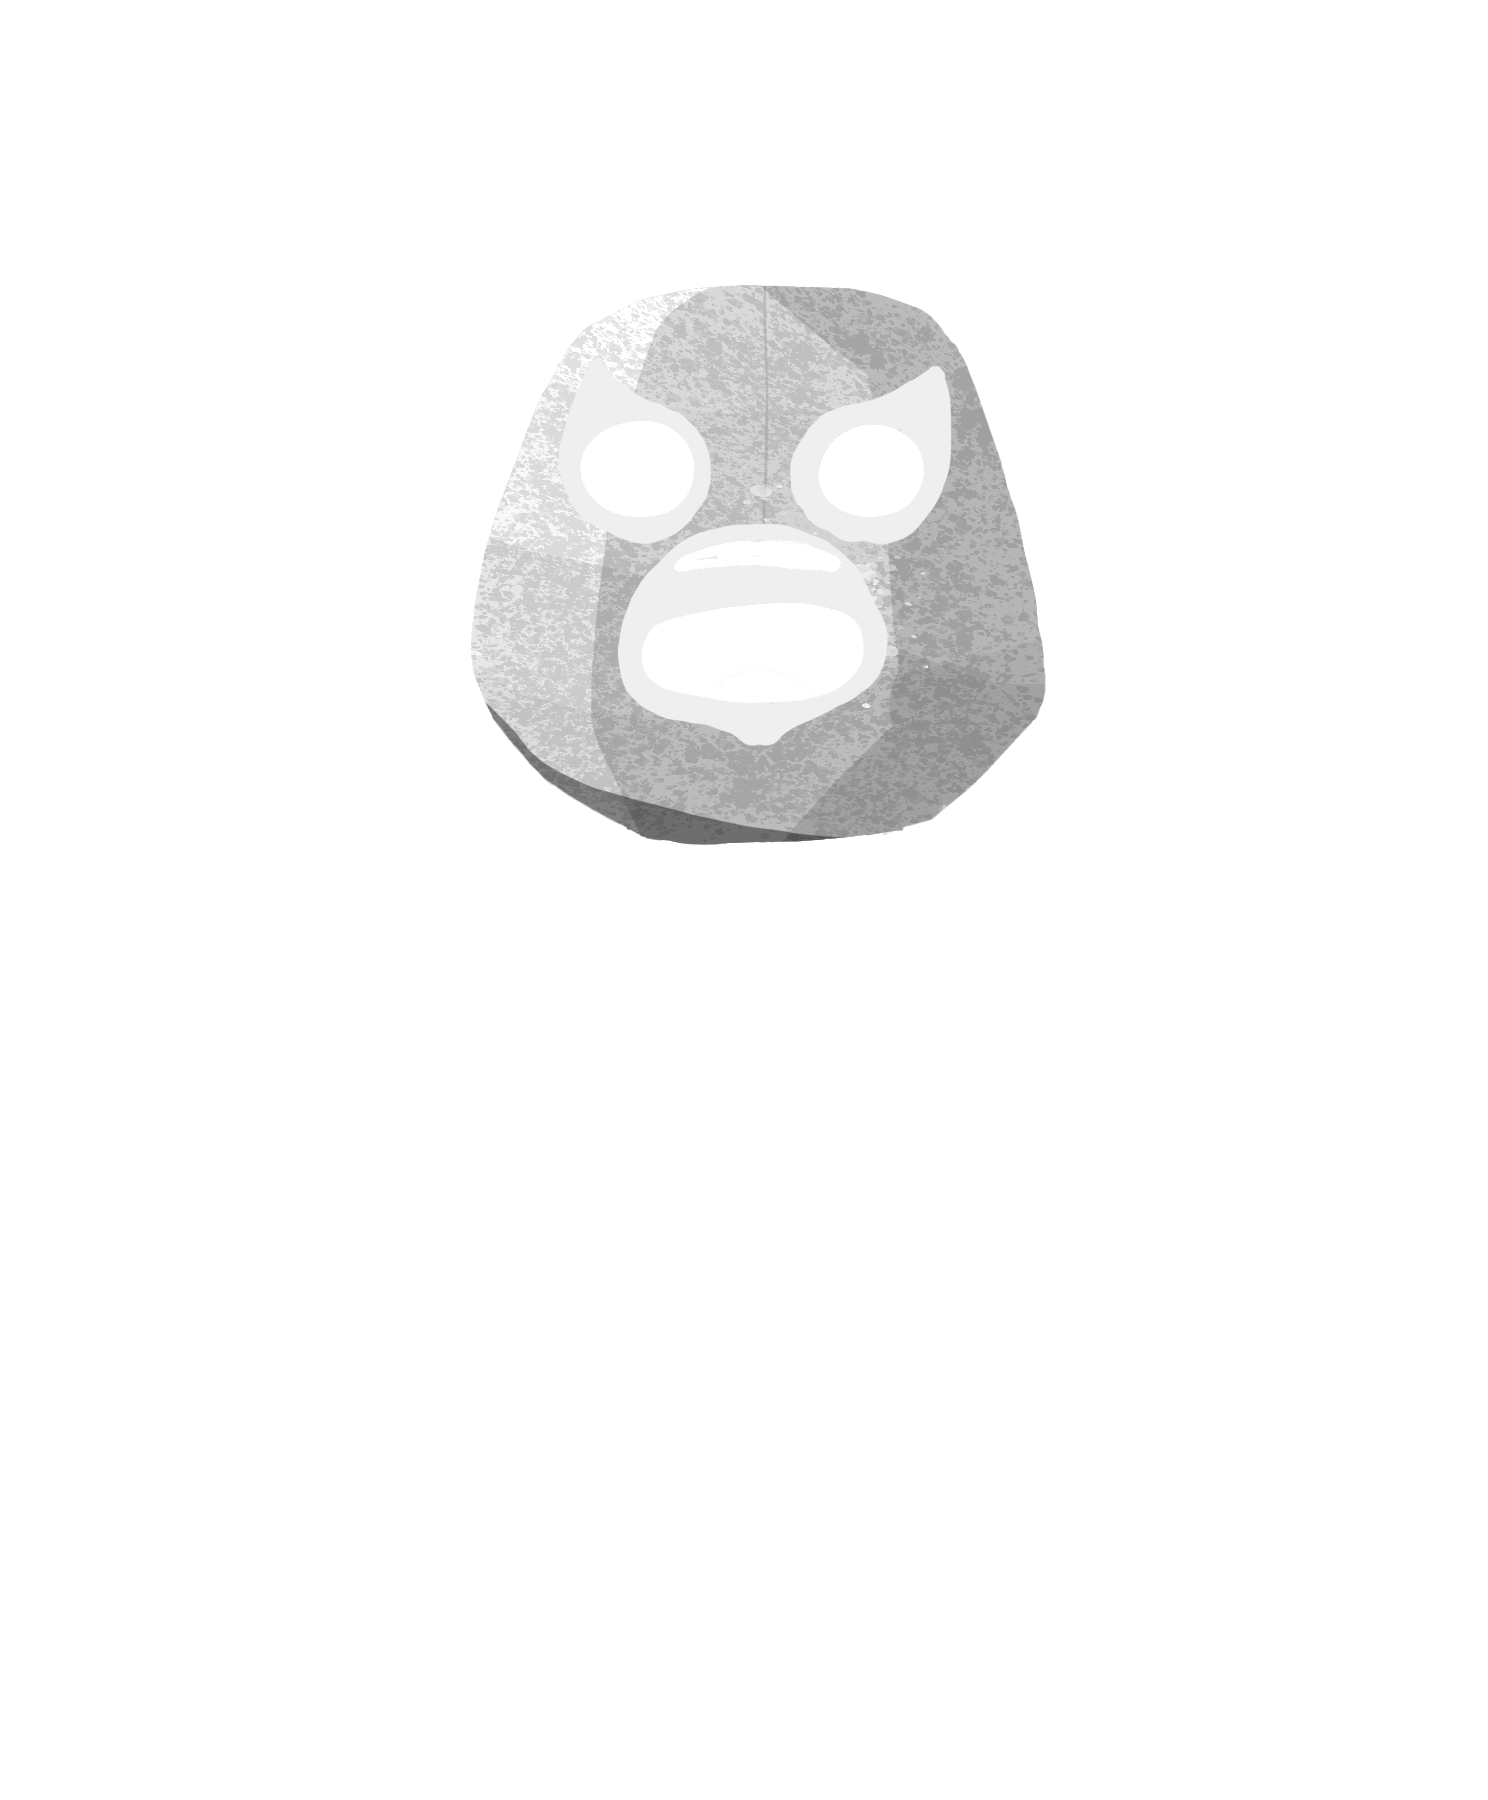
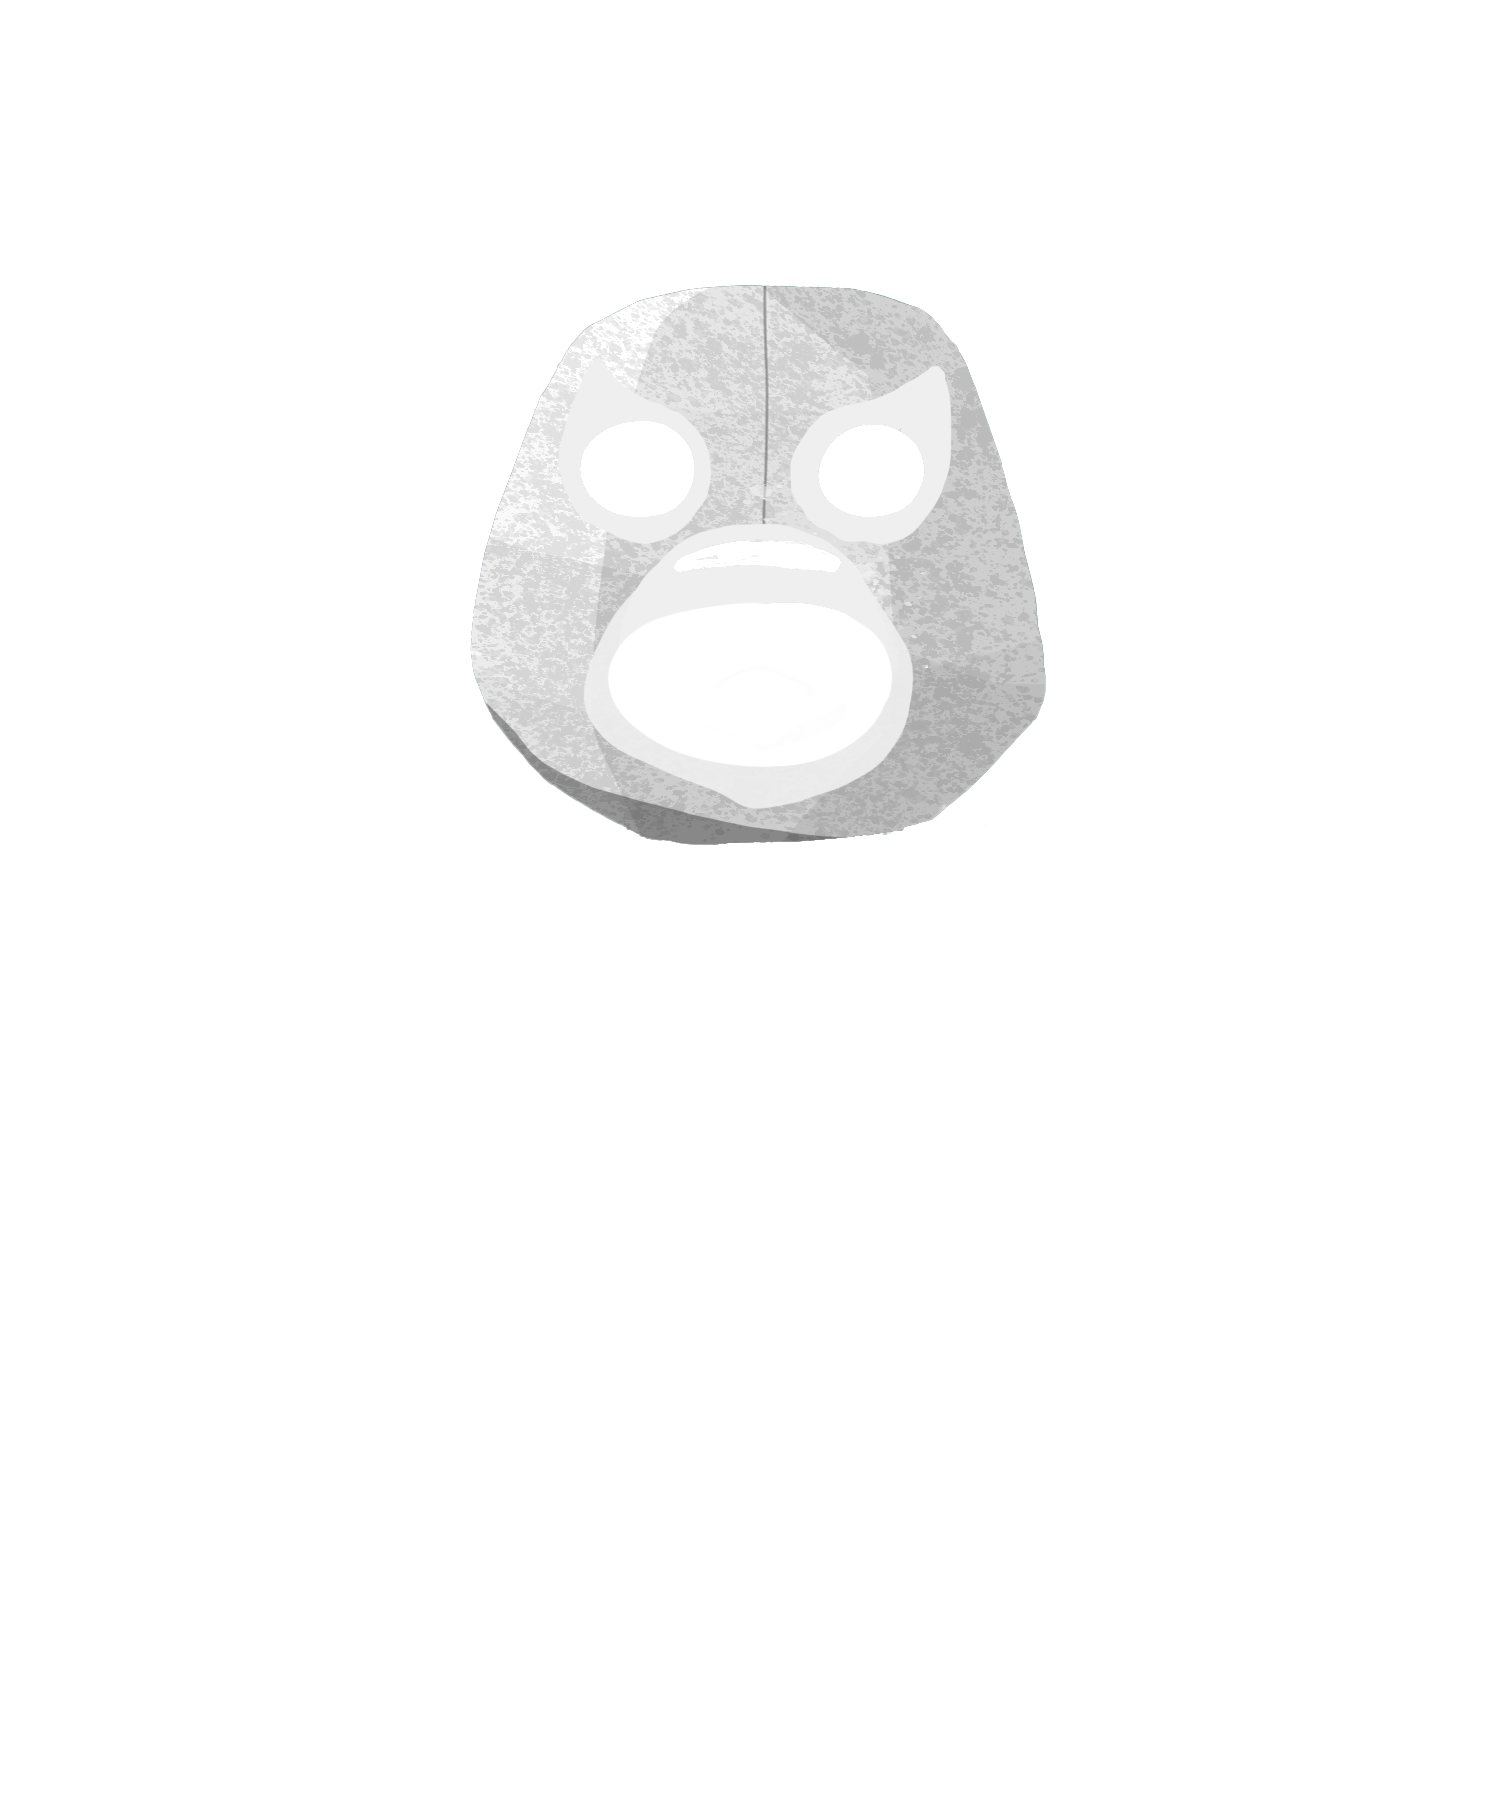
Add El Santo mask

Changed region(s): [[0.371, 0.1556, 0.711, 0.4667]]

diff --git a/2422.js b/2422.js
@@ -810,18 +810,15 @@ const losOsosSchema = {
                     ],
                 },
                 {
-                    type: "options",
-                    name: "Luchador mask", 
-                    options: [
-                        { 
-                            type: "front",
-                            asset: "./assets/eyewear_luchador.png",
-                        },
-                        {
-                            type: "front",
-                            asset: "./assets/eyewear_nftbiker.png",
-                        },
-                    ],
+                    name: "El Santo mask", 
+                    type: "front",
+                    asset: "./assets/headwear_el_santo.png",
+                    level: 290,
+                },
+                {
+                    name: "NFT Biker luchador mask", 
+                    type: "front",
+                    asset: "./assets/eyewear_nftbiker.png",
                     level: 290,
                 },
                 { 
@@ -1526,12 +1523,10 @@ const losOsosSchema = {
                 { 
                     name: "Hmmmm", 
                     asset: "./assets/mouth_confused.png",
-                    level: 250,
                 },
                 { 
                     name: "Surprised", 
                     asset: "./assets/mouth_surprised.png",
-                    level: 250,
                 },
                 { 
                     name: "Freddie Mercury mustache", 
@@ -1550,7 +1545,6 @@ const losOsosSchema = {
                 { 
                     name: "Lollipop", 
                     asset: "./assets/mouth_lollipop.png",
-                    level: 250,
                 },
                 { 
                     name: "Eating berries", 
@@ -1577,7 +1571,7 @@ const losOsosSchema = {
                     chance: 0.3,
                 },
                 { 
-                    name: "Meh", 
+                    name: "Serious", 
                     asset: "./assets/mouth_ok.png",
                     level: 250,
                     chance: 0.3,
@@ -1596,7 +1590,6 @@ const losOsosSchema = {
                     name: "Minting", 
                     type: "front",
                     assets: [ "./assets/mouth_tongue_out.png", "./assets/mouth_mint.png" ],
-                    level: 250,
                 },
             ],
         },
